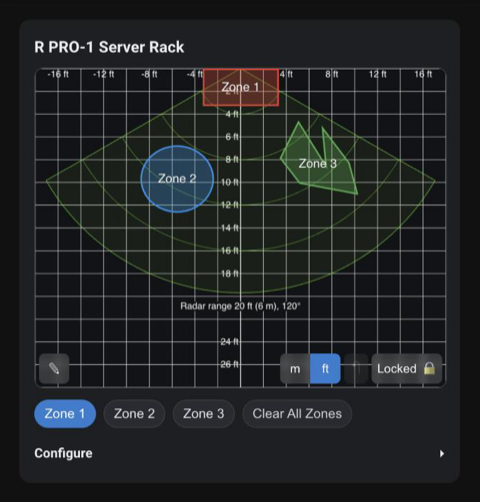
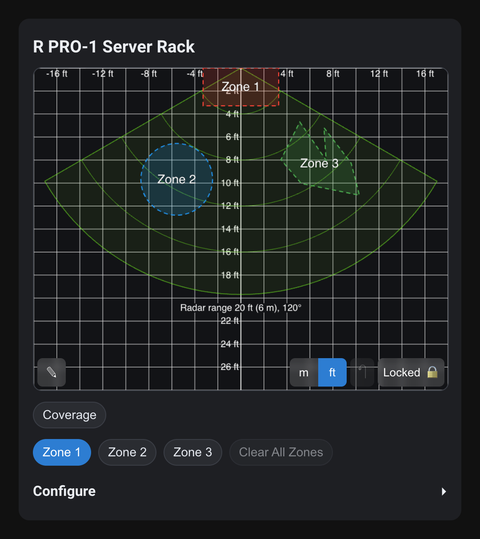
Show the 2.4.0b2 zone map and its live clip in the README
The zone map screenshot is the 480 px recapture from the 2.4.0b2 bundle:
zones pale and dashed while nobody is in them, the Coverage button, and
Clear All Zones dimmed while the map is locked. The live clip, which the
README already linked, is new: target 1 walks from the Doorway zone to the
Couch zone and back at the radar's real cadence, so its alt text says the
dot moves in steps as the radar reports about once a second.

diff --git a/README.md b/README.md
@@ -195,7 +195,7 @@ including what each HACS box says.
 
    ![The zone map on an R PRO-1 in feet, fitted to the radar's view with the caption Radar range 20 ft (6 m), 120°: a rectangle, a circle and a polygon drawn as zones, pale and dashed while nobody is in them, the m / ft switch and the Locked button in the corner, and under the grid a Coverage button and the zone buttons, with Clear All Zones dimmed while the map is locked](https://raw.githubusercontent.com/ApolloAutomation/apollo-mmwave-main/main/docs/images/apollo-mmwave-zone-map.png)
 
-   ![The live zone map in feet: target 1 walks from the Doorway zone to the Couch zone and back with a short fading trail behind its numbered dot, and each zone turns solid while the dot is inside it and pale and dashed once it leaves; target 2 sits still in the Desk zone, which stays lit, and the Fan zone is hatched and labeled Fan (ignored)](https://raw.githubusercontent.com/ApolloAutomation/apollo-mmwave-main/main/docs/images/apollo-mmwave-zone-map-live.gif)
+   ![The live zone map in feet: target 1 walks from the Doorway zone to the Couch zone and back with a short fading trail behind its numbered dot, moving in steps as the radar reports about once a second, and each zone turns solid while the dot is inside it and pale and dashed once it leaves; target 2 sits still in the Desk zone, which stays lit, and the Fan zone is hatched and labeled Fan (ignored)](https://raw.githubusercontent.com/ApolloAutomation/apollo-mmwave-main/main/docs/images/apollo-mmwave-zone-map-live.gif)
 
 ## If something is wrong
 
